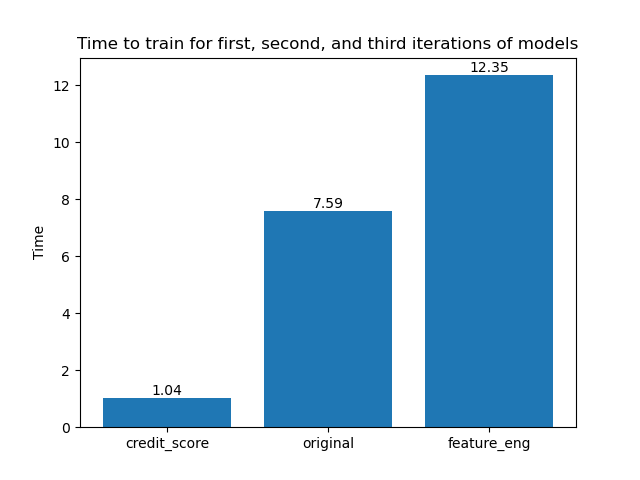
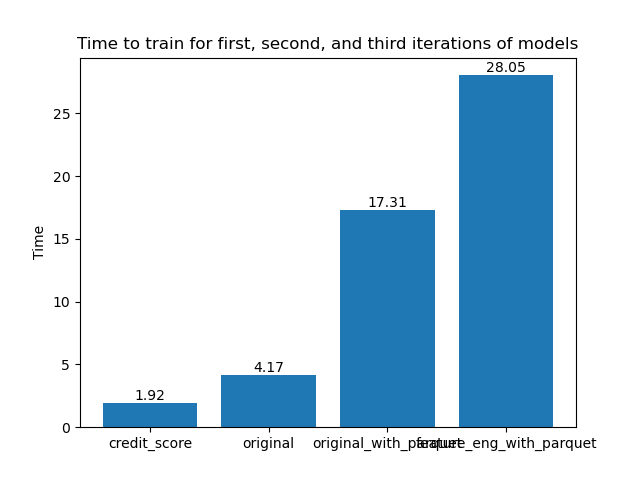
ran graphs, successful except sizing, will adjust now

diff --git a/src/risknet/run/main.py b/src/risknet/run/main.py
@@ -33,13 +33,13 @@ Iterate to generate:
 - All optimizations added (all_in): OG + parquet + feature engineering. Loaded using parquet
 '''
 #Currently loading all with parquet
-#cs = pipeline.pipeline(fe_enabled=False, baseline=True, p_true=False)
-#og = pipeline.pipeline(fe_enabled=False, baseline=False, p_true=False)
+cs = pipeline.pipeline(fe_enabled=False, baseline=True, p_true=False)
+og = pipeline.pipeline(fe_enabled=False, baseline=False, p_true=False)
 og_parquet = pipeline.pipeline(fe_enabled=False, baseline=False, p_true=True)
-#all_in = pipeline.pipeline(fe_enabled=True, baseline=False, p_true=True)
-'''
+all_in = pipeline.pipeline(fe_enabled=True, baseline=False, p_true=True)
+
 models_used = [cs, og, og_parquet, all_in]
-order = ['credit_score', 'original', 'original_with_parquet', 'feature_eng']
+order = ['credit_score', 'original', 'original_with_parquet', 'feature_eng_with_parquet']
 
 aucs = auc(models_used)
 prs = pr(models_used)
@@ -49,7 +49,7 @@ end = time.time()
 elapsed = end - start
 
 print("Time to run all " + str(len(order)) + " models and plot: " + str(round((elapsed / 60), 2)) + " minutes")
-#About 25 minutes to run 3 models
+#About 25 minutes to run all models
 
 models = pd.DataFrame(
     {'model': order,
@@ -61,21 +61,28 @@ models = pd.DataFrame(
 print(aucs)
 print(models)
 
-auc_bar = sns.barplot(data=models, x='model', y='auc')
-auc_bar.bar_label(auc_bar.containers[0], fontsize=10)
+plt.figure(figsize=(6,4)) # 6 inch wide, 4 inch high
+fig, ax = plt.subplots()
+auc_bar = sns.barplot(data=models, x='model', y='auc').set_title('Performance (AUC) for each model')
+#auc_bar.bar_label(auc_bar.containers[0], fontsize=10)
+ax.set_xticklabels(ax.get_xticks(), rotation = 45)
 plt.savefig('graphs/aucs.png')
 plt.show()
 
-pr_bar = sns.barplot(data=models, x='model', y='prs')
-pr_bar.bar_label(pr_bar.containers[0], fontsize=10)
+plt.figure(figsize=(6,4)) # 6 inch wide, 4 inch high
+fig, ax = plt.subplots()
+pr_bar = sns.barplot(data=models, x='model', y='prs').set_title('Performance (Precision) for each model')
+#pr_bar.bar_label(pr_bar.containers[0], fontsize=10)
+ax.set_xticklabels(ax.get_xticks(), rotation = 45)
 plt.savefig('graphs/prs.png')
 plt.show()
 
+plt.figure(figsize=(6,4)) # 6 inch wide, 4 inch high
 fig, ax = plt.subplots()
 rects = ax.bar(order, ts)
 ax.bar_label(rects)
 ax.set_ylabel("Time")
+ax.set_xticklabels(ax.get_xticks(), rotation = 45)
 ax.set_title("Time to train for first, second, and third iterations of models")
 plt.savefig('graphs/time.png')
 plt.show()
-'''

diff --git a/src/risknet/run/pipeline.py b/src/risknet/run/pipeline.py
@@ -115,7 +115,7 @@ def pipeline(fe_enabled=True, baseline=False, p_true=True):
         df = fe.fe(df, fm_root)
 
     #Training the XGB Model
-    print(df.max())
+    print(df.columns)
     data, time = model.xgb_train(df, fm_root, baseline=baseline, cat_label='default')
     auc, pr, recall = model.xgb_eval(data)
 
